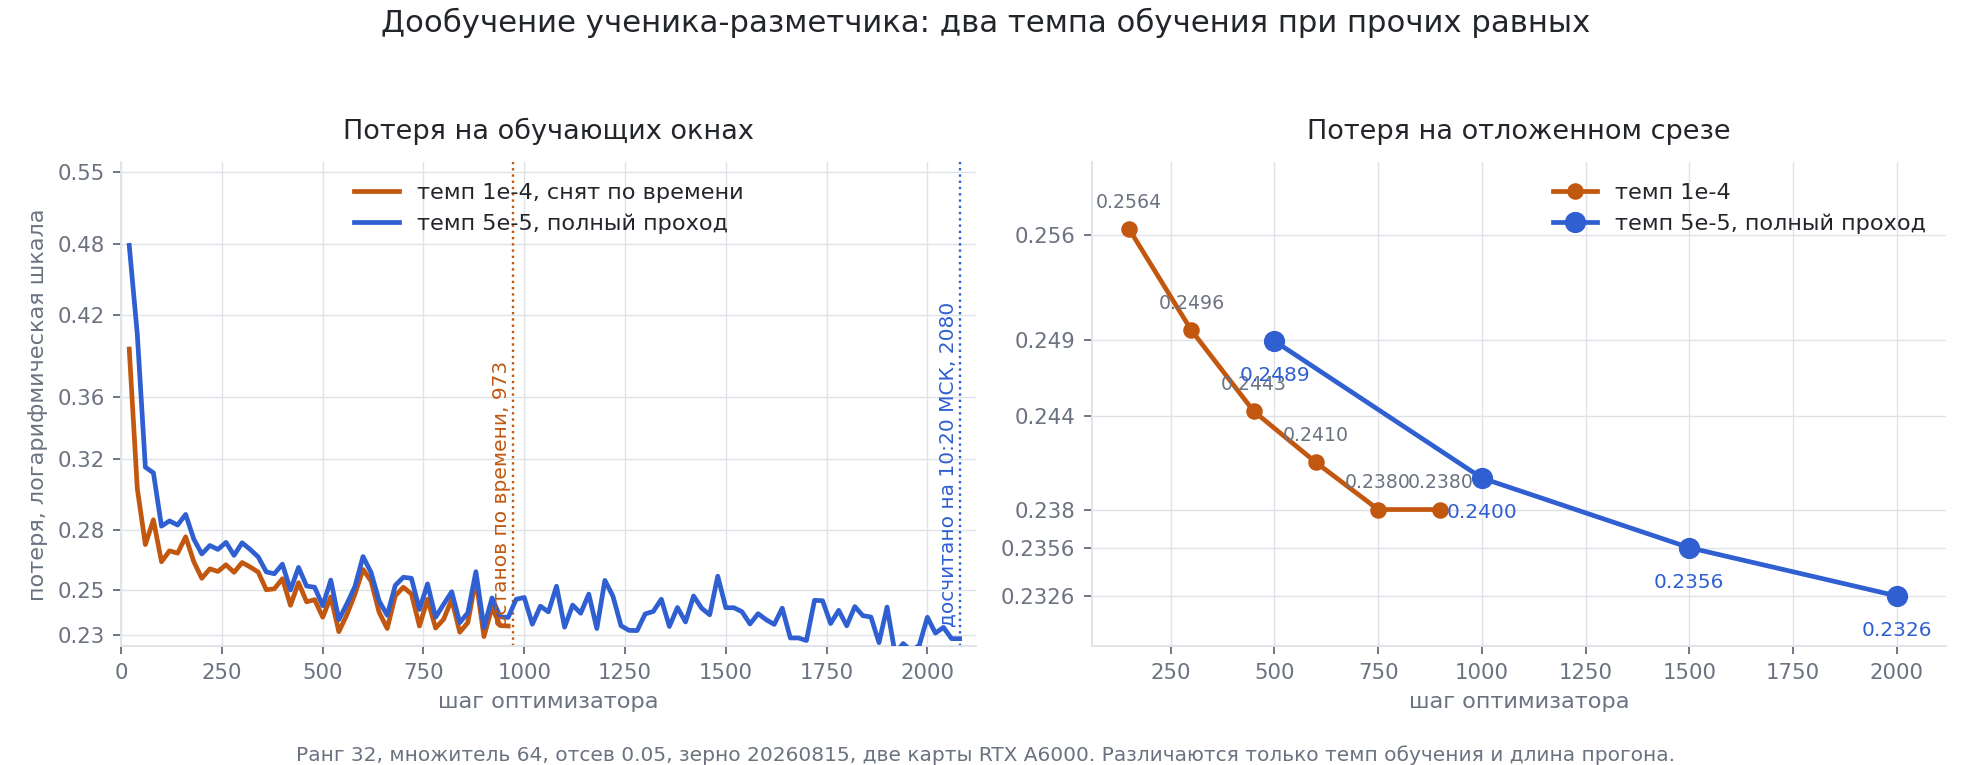
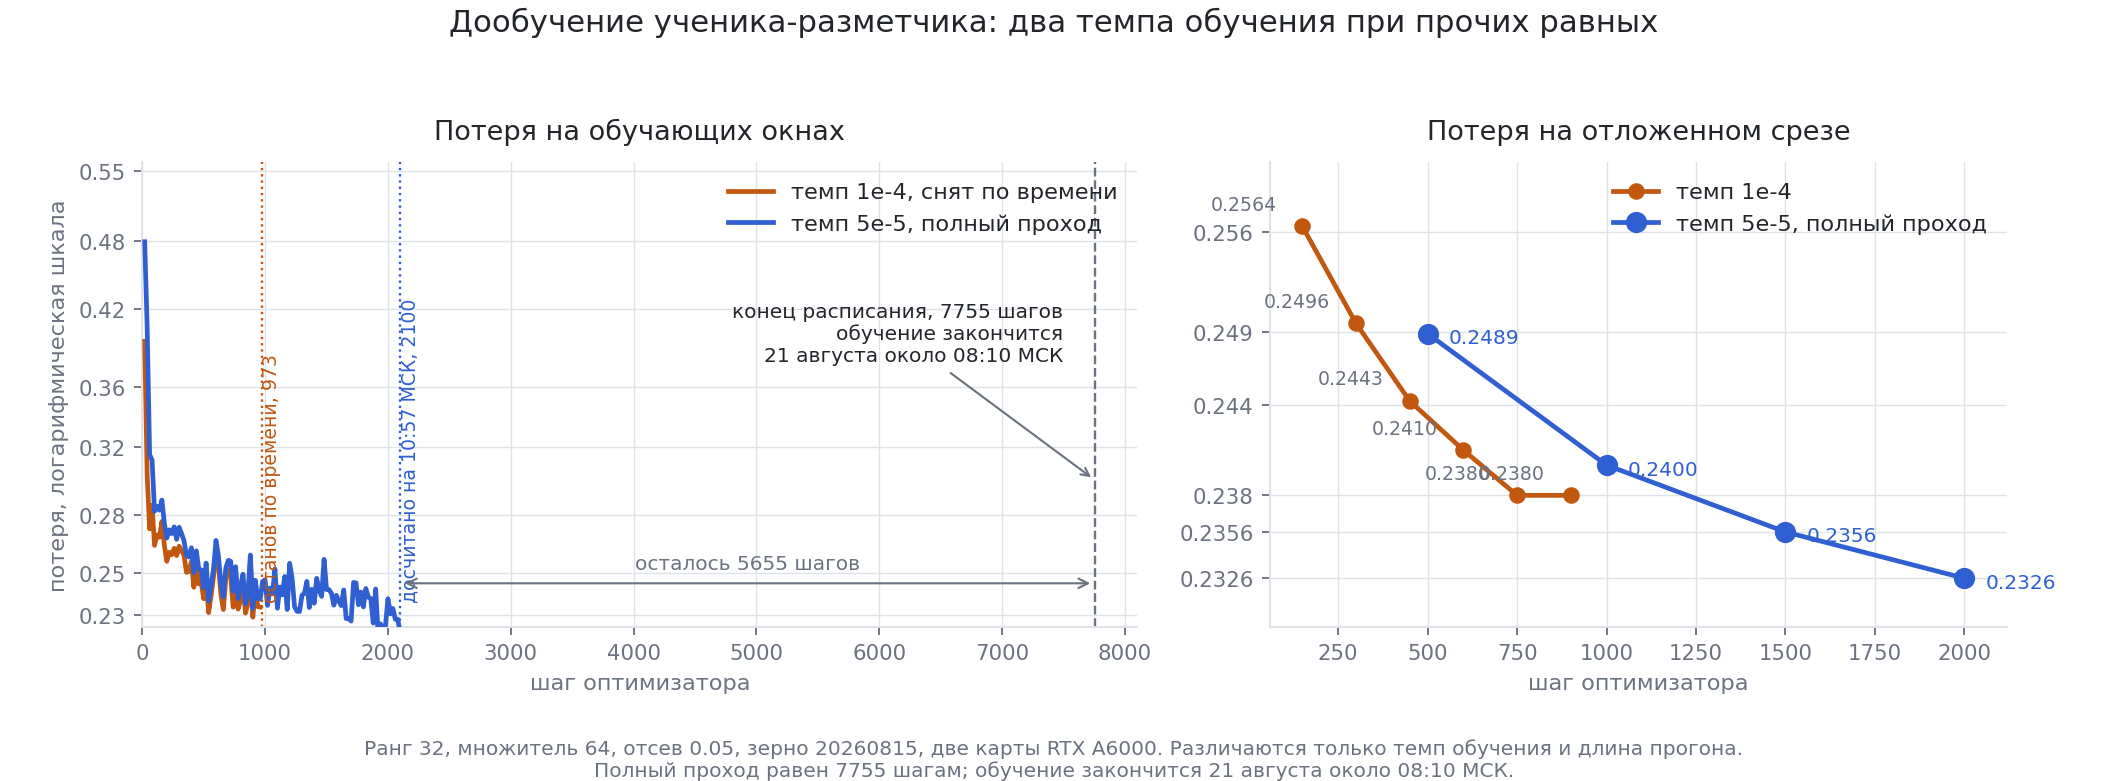
График ученика на полной оси расписания с датой окончания обучения

diff --git a/docs/assets/draw_fig_student_loss.py b/docs/assets/draw_fig_student_loss.py
@@ -49,7 +49,8 @@ val = json.loads((ROOT / "lora_judge_full_2026_08_18/outputs/val_loss_curve.json
 v_fast = [(r["шаг"], r["потеря на срезе"]) for r in val["прежний прогон темп 1e-4"]]
 v_slow = [(r["шаг"], r["потеря на срезе"]) for r in val["новый прогон темп 5e-5"]]
 
-fig, (ax1, ax2) = plt.subplots(1, 2, figsize=(11.6, 4.5))
+fig, (ax1, ax2) = plt.subplots(1, 2, figsize=(12.4, 4.6),
+                               gridspec_kw={"width_ratios": [1.35, 1.0]})
 
 for ax in (ax1, ax2):
     ax.set_yscale("log")
@@ -66,16 +67,27 @@ ax1.plot(s_fast, l_fast, color=C_FAST, linewidth=2.0, zorder=3,
          label="темп 1e-4, снят по времени")
 ax1.plot(s_slow, l_slow, color=C_SLOW, linewidth=2.0, zorder=3,
          label="темп 5e-5, полный проход")
+PLAN = 7755
 ax1.axvline(973, color=C_FAST, linewidth=1.0, linestyle=":", zorder=2)
-ax1.text(968, 0.2335, "останов по времени, 973  ", color=C_FAST, fontsize=8.5,
-         va="bottom", ha="right", rotation=90)
+ax1.text(973, 0.2335, " останов по времени, 973", color=C_FAST, fontsize=8,
+         va="bottom", ha="left", rotation=90)
 ax1.axvline(s_slow[-1], color=C_SLOW, linewidth=1.0, linestyle=":", zorder=2)
-ax1.text(s_slow[-1] - 5, 0.2335, f"досчитано на 10:20 МСК, {s_slow[-1]}  ",
-         color=C_SLOW, fontsize=8.5, va="bottom", ha="right", rotation=90)
+ax1.text(s_slow[-1], 0.2335, f" досчитано на 10:57 МСК, {s_slow[-1]}", color=C_SLOW,
+         fontsize=8, va="bottom", ha="left", rotation=90)
+ax1.axvline(PLAN, color=MUTED, linewidth=1.0, linestyle="--", zorder=2)
+ax1.annotate("конец расписания, 7755 шагов\nобучение закончится\n21 августа около 08:10 МСК",
+             xy=(PLAN, 0.30), xytext=(PLAN - 260, 0.40), fontsize=8.5, color=INK,
+             ha="right", va="center",
+             arrowprops=dict(arrowstyle="->", color=MUTED, lw=0.9))
+ax1.annotate("", xy=(PLAN, 0.245), xytext=(s_slow[-1], 0.245),
+             arrowprops=dict(arrowstyle="<->", color=MUTED, lw=0.9))
+ax1.text((PLAN + s_slow[-1]) / 2, 0.250,
+         f"осталось {PLAN - s_slow[-1]} шагов", fontsize=8.5, color=MUTED,
+         ha="center", va="bottom")
 ax1.set_title("Потеря на обучающих окнах", fontsize=11.5, color=INK, pad=10)
 ax1.set_xlabel("шаг оптимизатора", fontsize=9.5, color=MUTED)
 ax1.set_ylabel("потеря, логарифмическая шкала", fontsize=9.5, color=MUTED)
-ax1.set_xlim(0, 2120)
+ax1.set_xlim(0, 8100)
 
 # --- панель 2: потеря на срезе --------------------------------------------
 ax2.plot([p[0] for p in v_fast], [p[1] for p in v_fast], color=C_FAST,
@@ -84,10 +96,10 @@ ax2.plot([p[0] for p in v_slow], [p[1] for p in v_slow], color=C_SLOW,
          linewidth=2.0, marker="o", markersize=8, zorder=3, label="темп 5e-5, полный проход")
 for st, lo in v_fast:
     ax2.annotate(f"{lo:.4f}", (st, lo), textcoords="offset points",
-                 xytext=(0, 9), ha="center", fontsize=8, color=MUTED)
+                 xytext=(-11, 7), ha="right", fontsize=8, color=MUTED)
 for st, lo in v_slow:
     ax2.annotate(f"{lo:.4f}", (st, lo), textcoords="offset points",
-                 xytext=(0, -17), ha="center", fontsize=8.5, color=C_SLOW)
+                 xytext=(9, -4), ha="left", fontsize=8.5, color=C_SLOW)
 ax2.set_title("Потеря на отложенном срезе", fontsize=11.5, color=INK, pad=10)
 ax2.set_xlabel("шаг оптимизатора", fontsize=9.5, color=MUTED)
 ax2.set_xlim(60, 2120)
@@ -102,16 +114,19 @@ ax2.set_ylim(0.2295, 0.261)
 ax2.yaxis.set_major_locator(FixedLocator([0.2326, 0.2356, 0.238, 0.244, 0.249, 0.256]))
 ax2.yaxis.set_major_formatter(FixedFormatter(["0.2326", "0.2356", "0.238", "0.244", "0.249", "0.256"]))
 
-ax1.legend(frameon=False, fontsize=9.5, loc="upper center", labelcolor=INK)
+ax1.legend(frameon=False, fontsize=9.5, loc="upper right", labelcolor=INK)
 ax2.legend(frameon=False, fontsize=9.5, loc="upper right", labelcolor=INK)
 
 fig.suptitle("Дообучение ученика-разметчика: два темпа обучения при прочих равных",
              fontsize=13, color=INK, y=0.99)
-fig.text(0.5, 0.005,
+fig.text(0.5, 0.035,
          "Ранг 32, множитель 64, отсев 0.05, зерно 20260815, две карты RTX A6000. "
          "Различаются только темп обучения и длина прогона.",
          ha="center", fontsize=8.5, color=MUTED)
-fig.tight_layout(rect=[0, 0.03, 1, 0.955])
+fig.text(0.5, 0.006,
+         "Полный проход равен 7755 шагам; обучение закончится 21 августа около 08:10 МСК.",
+         ha="center", fontsize=8.5, color=MUTED)
+fig.tight_layout(rect=[0.01, 0.075, 0.99, 0.955])
 fig.savefig(OUT, dpi=170, facecolor="white")
 print("сохранено:", OUT)
 print("точек обучающей кривой:", len(s_fast), "и", len(s_slow))
